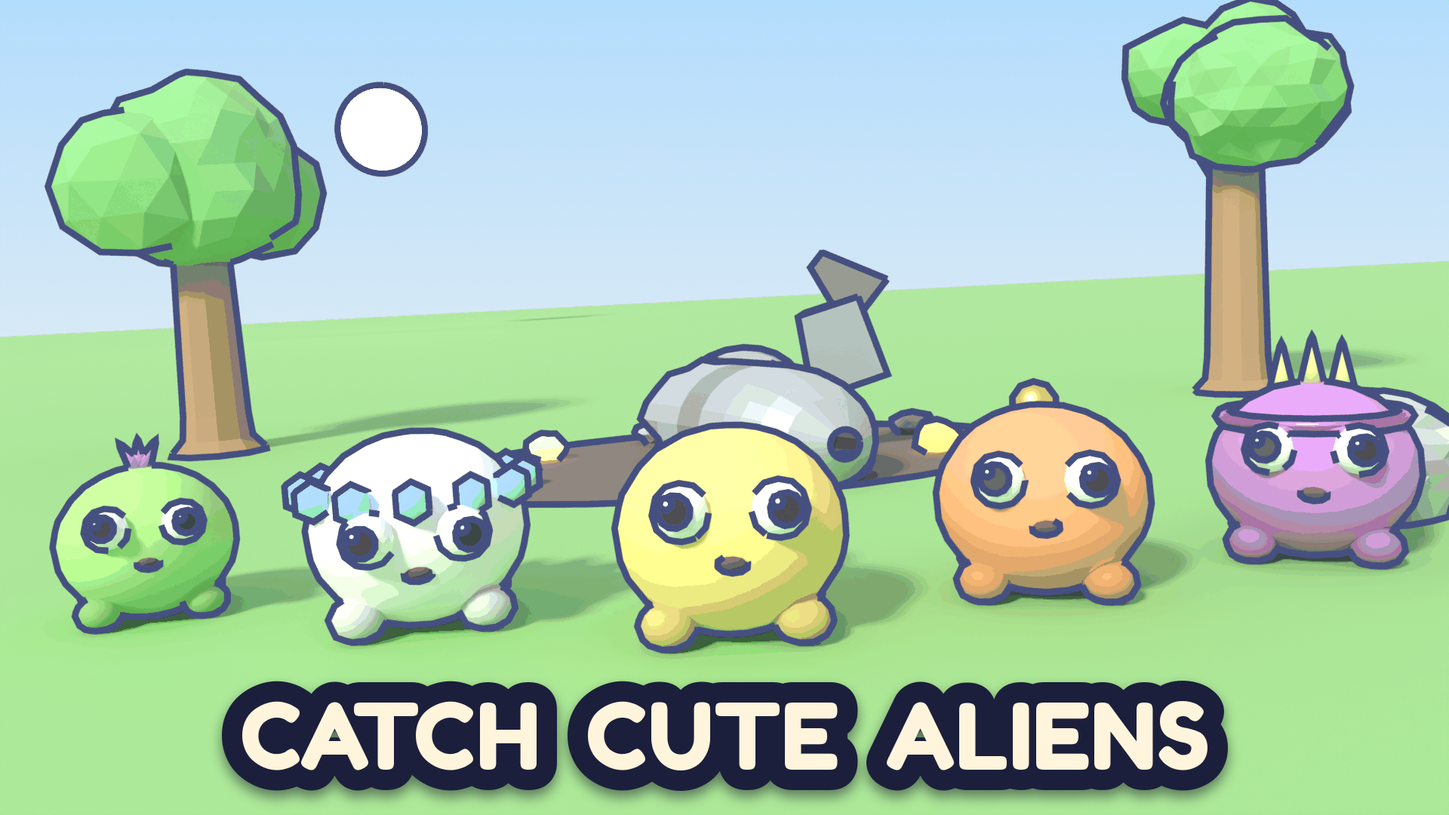
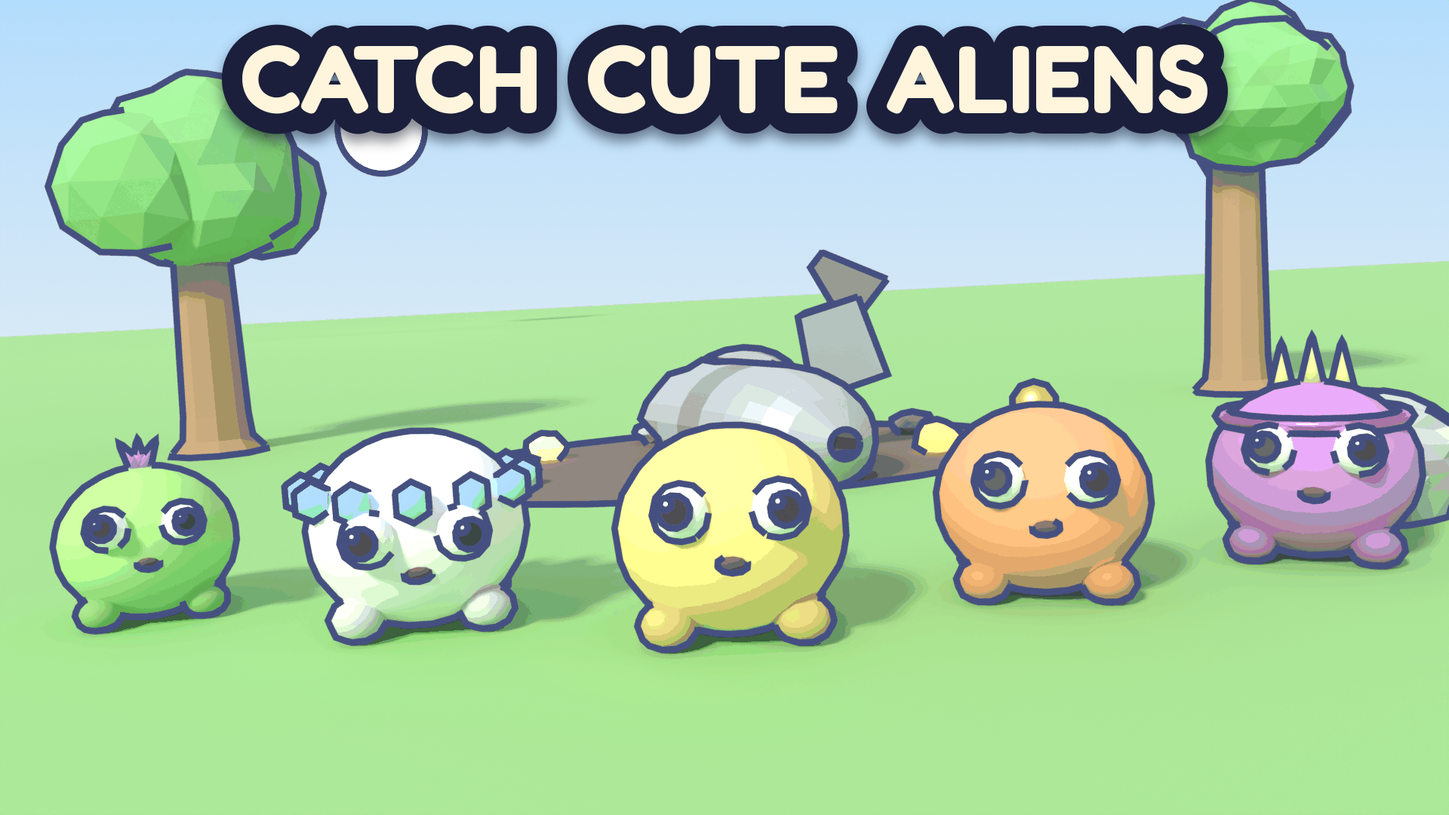
Thumbnail research: the recipe, our set scored, three candidates; the Verdant title moves to the top third
Claude-Session: https://claude.ai/code/session_01AXvT6QCi1wEkW64tWcXEt5

Changed region(s): [[0.125, 0.825, 0.875, 1.0], [0.125, 0.0306, 0.875, 0.1833]]

diff --git a/docs/vault/01-game-design/Thumbnail-Research.md b/docs/vault/01-game-design/Thumbnail-Research.md
@@ -1,0 +1,207 @@
+# Thumbnail research: what earns the first click, and how we build ours
+
+Researched 2026-10-14 for Ethan's questions (which thumbnails get the most first clicks, describe or mystery, words, reward or moment, composition, icon versus thumbnail, cadence, a brand-new game). Companion to [[Growth-Playbook]] section 2 and [[STORE-PAGE]] section 4; the look rules are in [[Look-Plan]] L5b and L6.
+
+**Evidence tiers** (the [[Growth-Playbook]] words, plus one): **doc** = a Roblox Creator Docs page I opened in full through its GitHub mirror (`raw.githubusercontent.com/Roblox/creator-docs`); **summary** = a search-result summary of a Roblox post I could not open; **3rd** = a blog, wiki, forum or creator post, not Roblox; **recall** = my own memory of how a live game looks, not seen from here; **heuristic** = a design rule from the above with no Roblox test behind it.
+
+**What I could not do.** roblox.com, create.roblox.com and devforum.roblox.com are blocked and WebFetch reached nothing but the GitHub mirror, so I never saw a Home tile or a Creator Hub chart. About 35 searches returned snippets. There is **no public dataset** of play-through rate (PTR) by thumbnail style, and no creator I found published an A/B result with numbers. Everything about "what the top games' thumbnails show" is therefore recall, flagged in section 4 with a 15-minute check to do on a phone.
+
+## 0. The answer in ten lines
+
+1. Nobody outside Roblox can say which thumbnail style wins; Roblox's own number for the feature that picks winners is +8.5% qualified PTR on average, up to +50% for some games (doc), later quoted as +12% over 8,000+ experiences (summary). A better thumbnail is single-digit to low-double-digit percent, not magic. The first 60 seconds and the 28-day return matter more.
+2. Roblox's guidance (doc) is: unique imagery that previews what you will find, accurate to the game, text "sparingly" and only as gameplay context, nothing essential in the bottom (the player count overlays it), no ads, promotions or subjective claims.
+3. Since June 2026 Roblox says it demotes games that win clicks with "exciting thumbnails" but deliver little (newsroom, summary), and first-play bounce under 60 s and 180 s counts against you (doc). So **tease the real best moment; never hide the game behind a mystery.**
+4. The tile already prints our name, "Catch an Alien", under the picture. Thumbnail words should add what the name does not: the moment, the rarity, the hook, the update. "CATCH CUTE ALIENS" repeats the name, and it sits in the bottom band.
+5. All sources agree on the picture: one subject, a face with a clear emotion looking at the viewer, saturated colour with contrast, readable at phone size (3rd, heuristic).
+6. Our current legendary shot is the best of the set (12/16 on the recipe); the Verdant (5/16) and Frostbyte (4/16) shots are crowds of small aliens on pale ground and break Roblox's bottom-band rule.
+7. **All five store renders show the earlier ball-shaped aliens, not the silhouette-pass models now in `assets/models`.** If those go up before launch, the thumbnails stop matching the game (section 7).
+8. Ship three active thumbnails that differ by concept, not styling: Moment, Reward, Mystery (section 8). Roblox's tool is a per-user-group bandit, not a clean A/B; read it after a week.
+9. Put the Moment first (section 9): it is the only frame that shows the verb, and the first catch lands at 0:30.
+10. The icon is the mascot (Moop), no text, on a saturated dark backdrop; the current pale backdrop and 1% outline are the weak part.
+
+## 1. What Roblox itself says (doc unless marked)
+
+| Topic | Fact |
+|---|---|
+| Image | 16:9, ideally 1920x1080; jpg, gif, png, tga, bmp; stretched to 16:9 if not; personalization uploads under 3 MB. Up to **10** images or videos on the detail page; personalization uses **2 to 5** active ones |
+| Where it shows | "The first image thumbnail is used as the promotional image in various sections of the Home page." With 2+ active, each user group is served the winner instead. Home tile pixel sizes and autoplay behaviour are **not in any page I could read**; the video "can also be shown on the Home page" and shows first on the detail page |
+| The test | Personalization starts only with 2+ active thumbnails. Each is shown to random users, qualified PTR is measured per user group, the winner gets more impressions for that group, the others keep "minimal traffic". Impressions re-weight within hours (summary). The Home Page tab fills after a few hours with a table: impressions, qualified plays, average playtime, qualified PTR, a "Winning Segment" mark, and two graphs over time (summary of the docs' analytics section) |
+| Results | Average +8.5% qualified PTR in testing, some games +50% (doc). "Over 8,000 experiences adopted it, average +12%" (Bloxy News post quoting Roblox, summary). The 2025 "remembers winners" update: +0.19% and 21% fewer impressions to non-winners (summary); start a new test with the current winner included and it keeps most traffic |
+| Cadence | "Test multiple new thumbnails with any major game or content update, and then not make changes until the next update." Keep several active; a thumbnail pulled early may be the second-best performer |
+| Measurement | Qualified PTR is a rolling 7-day value (summary); removed thumbnails keep colouring the average for days; several bug threads on mismatched counts (summary) |
+| Content | "Imagery that is unique and gives players a relevant preview"; "ambiguous imagery can cause confusion"; "make sure all thumbnails accurately reflect your game"; a dinosaur thumbnail for a game with no dinosaurs is the docs' mismatch example (discovery.md) |
+| Text | "Overlay text sparingly, and only to describe gameplay context." Not allowed: advertisements, promotions or subjective claims ("50% off", "Free UGC!"). "Avoid placing essential text or elements at the bottom" |
+| Reward words | Metadata that "implies any type of monetary reward is not prioritized"; highly mismatched metadata is not recommended and ranks lower in search (discovery.md). No FREE, Robux, codes words |
+| Video | 3 uploads a month; must be authentic (no voice-over, no lyric music, no real-life footage); in-game UI text and a logo overlay are allowed; not on console or VR |
+| Icon | Square, 512x512 template, shown down to about 150x150; "prominent placement in several sections of the Home page"; express theme, tone and genre; avoid ambiguous art; colour and contrast carry mood (bright high saturation for fantasy and dreamy). The docs do not mention text in icons. **No icon test exists** (a DevForum request is open, nothing found to say it shipped) |
+| Events | Each event can carry its own thumbnail; the docs recommend one "different from your experience thumbnails"; the event category "may be shown alongside your event thumbnail"; max 10 live or upcoming events; Home is not mentioned (experience-events.md) |
+| Algorithm | PTR is the top-weighted Recommended-for-You signal; first-play bounce is negative; the window moved to 28 days on 2026-06-15 because short windows let "exciting thumbnails but shallow gameplay" displace better games (newsroom, summary). A temporary PTR drop while impressions rise at first discovery is normal (discovery.md) |
+
+## 2. What creators and trade sources say (3rd, all anecdotal)
+
+- **No numbers on style.** Searches for an A/B result with faces, text or colours returned none. One blog claims face-forward thumbnails beat scenic ones "in reported A/B results" and cites nothing. One generic YouTube-sourced claim (+20 to 30% for genuine emotion) is not Roblox data. I discard every "40% CTR lift" figure I saw (unsourced).
+- **Grow a Garden:** an artist posted that a thumbnail "was used for A/B thumbnail testing for the game, and it did pretty well" (X, summary). A fan wiki page named "Thumbnails and Icons" is summarised as "all of Grow a Garden's thumbnails and icons contain text" (wiki, snippet).
+- **Roblox's tool is a bandit.** A post from 2024 describes it as multi-armed-bandit testing that finds "what sort of image resonates" (X). A creator contest for a Claw Machine Simulator thumbnail let Roblox's tool pick the winner; the brief asked for eye-catching, "not misleading" (X).
+- **One DevForum case:** a creator with a weak PTR was told the default-baseplate-and-sword thumbnail was the weakest of his set and to show an intense fight or scenic view that makes people curious about the gameplay. Another creator reported about 3.2% qualified PTR on the best thumbnail, improved after adding two more (summary; units unclear).
+- **Tizzy_RBLX:** a transcript summary lists "test several thumbnails to improve click-through" among seven lessons (3rd). The okviky3 slideshow already in `media/tiktok/NOTES.md` says "nice thumbnails which also show and don't tell" and "good PTR thumbnails" (3rd).
+- **Blogs (ForgeGUI, Moda, qptr.io, others; opinion):** one subject, one action, one mood; bold saturated colours that stand out against the white and grey Discover page; faces with clear exaggerated emotion; one to two characters, sometimes three; dynamic angle not flat head-on; if you need a word make it huge, remove text that cannot be read at about 150x150; put text on a thin outline or a bar; keep faces and text away from the bottom edge; before-and-after shots are a simulator staple; test at about 320 px wide. A tool, qptr.io, previews thumbnails on mobile, desktop and console Home layouts.
+- **Not found:** BIG Games or any big studio saying anything about thumbnails; any YouTube creator's A/B table. The brief's searches for these returned only the sources above.
+
+## 3. The questions, answered
+
+**Describe or mystery?** Describe the moment, tease the payoff. Roblox's docs and staff post ("showcase your gameplay or content update", rewards thumbnails that match what players will play, warns that clickbait causes quick bounces, summary) point one way, and the June 2026 change makes a mismatched click cost you for 28 days. A pure mystery arm has no evidence for it on Roblox. A cute face plus a hook is fine because it is not a lie. *Confidence: medium (doc and newsroom, no test data).*
+
+**Words: how often, how many, how big, what they say?** The only observed fact is that Grow a Garden uses its title on every thumbnail and icon (wiki snippet). Roblox says sparingly. No measured effect of word count exists. For us: zero or at most three words, one line, cap height at least 9% of the frame (about 100 px at 1080p, 10 px on a 192x108 test), which caps one line at about 12 letters, in the top third. What they should say: the moment ("PERFECT!"), the rarity ("LEGENDARY"), the hook ("WHO'S THAT?"), the update ("NEW WORLD"), because the tile already shows "Catch an Alien". A number: no evidence it helps on Roblox; use one only as a deliberate test (section 8). *Confidence: low on numbers, medium on placement (doc).*
+
+**Does the first thumbnail differ from the second and third?** With 2+ active, Roblox picks per user group, so there is no single "first" on Home. The first image is the fallback and the lead of the detail-page gallery (and a video leads it if one is approved). Make the three differ by concept so the bandit has something to learn. Inactive images (up to 10 in all) only show in the detail-page gallery, which is where the ship and the collection belong. *Confidence: medium (doc).*
+
+**Rarest pet or the catching moment? A face looking at the viewer? Several characters or one?** No data. The genre convention in collection games is the rare pet (3rd, recall); the moment is the thing no peer shows. Faces to the lens and one or two characters are the consensus (3rd). Our call: one hero, eyes to the lens, and we test moment against reward against mystery. *Confidence: low.*
+
+**Composition for a small tile.** All heuristic: hero 55 to 75% of the frame height and 30 to 45% of the width, centred; essentials inside y 0.05 to 0.82 (the bottom 18% is the metadata band); saturated backdrop that is neither white nor pale; complementary hero and backdrop; navy outline at least 1.3% of the frame height on the hero; face and eyes large enough to read at 192x108 (each eye at least 5% of the frame width); text on the top third. Roblox adds: express mood through colour, test at 150x150. I measured our own set at 256x144 (section 7).
+
+**Icon versus thumbnail.** The icon is the identity: square, 150 px, a prominent Home placement; it carries the face, no words. The thumbnail is the pitch: 16:9, the verb and the payoff. Which Home row uses which is not documented; "the first thumbnail" is the promotional image in various Home sections.
+
+**Update cadence.** Roblox: change thumbnails with major updates, then hold. Big games swap with each update and event with an update name or a "NEW" or "UPDATE" tag (recall; Pet Simulator 99 numbers its updates, summary). The platform's own sticker is the event category beside an event thumbnail (doc). We hold the launch set a full week, then rotate one arm per update (World 2, Haunted Nebula's end, the first Frostbyte week).
+
+**What should a brand-new game do differently?** See section 5.
+
+## 4. The top games (recall: verify before relying on it)
+
+I could not open one tile; no search returned a description of a thumbnail. These rows are what I remember of each game's art, each marked with how sure I am. "?" means I do not know. Treat the table as a hypothesis list for the phone check in section 11.
+
+| Game | Describes or teases (recall) | Words | Hero | Render or in-game | Sticker | Confidence |
+|---|---|---|---|---|---|---|
+| Grow a Garden | Describes: a garden, crops, pets, bright | Title on every thumbnail and icon (wiki snippet); event name on event art | crops or a pet; a face? | stylised 3D render | event names | words: snippet; rest low |
+| Steal a Brainrot | Teases: loud meme creatures | big title | a creature face | render | ? | low |
+| Pet Simulator 99 | Rewards: one big rare pet, a logo, the update name | logo plus update name | a Huge pet, face to the viewer | polished 3D render | update tags | medium |
+| Adopt Me | Describes: friendly pets and the new content | update name | pet faces to the viewer, pastel | soft 3D render | "NEW" on updates | medium |
+| Fisch | Rewards: a giant fish and the angler | update name | the catch | render | update tags | low |
+| Blox Fruits | Rewards: stylised characters and fruit powers | update name and number | an illustrated hero | 2D illustration; a forum snippet praises its thumbnail quality | update number | medium |
+| 99 Nights in the Forest | Teases: dark forest, a creature | little text | a creature | render | ? | low |
+| Dress to Impress | Describes: avatars in outfits | ? | avatars | render | ? | low |
+| Rivals, Blue Lock Rivals | Describes: a duel or key art | title | characters | render or illustration | ? | low |
+| Brookhaven | Describes: a house and the town | the name | a house | render | ? | low |
+| Steal an Egg | ? (launched July 2026, after my solid recall; one snippet says Roblox removed it in late August, unverified) | ? | ? | ? | ? | none |
+| Pet Catchers | Describes: cute pets to catch | logo | pets | render | ? | low |
+
+What I take from it, only as a pattern to check: the top collection games show one big character with its face to the viewer in a polished render, with the logo or the update name as the only text, and an update sticker when there is something new. The icon repeats the same character close up.
+
+## 5. A brand-new game with no players
+
+- **No social proof.** The tile's rating and player count will be thin or empty for weeks, so the picture and the name are the whole sell. The picture has to say the verb and the cute at once. Our name already says "Catch" and "Alien"; the picture adds how (a bar, a timing moment) and why (cute, a rare glow).
+- **No brand recognition.** A top game can run a mystery or a logo because players know it. We cannot; the hook must be visible without knowing us.
+- **The click has to be honest.** The first-play bounce is a negative signal and counts Home-acquired players only (Growth-Playbook section 1). Our first catch is at 0:30; the Moment thumbnail promises exactly that.
+- **Small traffic means few arms.** A bandit needs impressions; with little traffic three arms learn faster than five. Start with three; add the fourth with the first update.
+- **A PTR dip at first discovery is normal** (discovery.md); do not react to day-one numbers.
+- **Seed the same story elsewhere:** the 10 to 15 second clip that shows the catch moment, the group page, and the first creators ([[STORE-PAGE]] section 5c).
+
+## 6. Our recipe (the first thumbnail set)
+
+1. **One hero, one verb cue, one payoff.** A single alien, face to the lens, plus one thing that says what you do (the timing bar) or what you get (a rarity glow). Never five equal aliens.
+2. **Size and place.** Hero 55 to 75% of the frame height, 30 to 45% of the width, horizontally centred (or on a third when text sits opposite). Face centre between y 0.35 and 0.55.
+3. **Safe zone.** Every essential (face, bar, words, badge) inside y 0.05 to 0.82 and x 0.05 to 0.95. Feet, a ground ring or a shadow may drop into the bottom 18%.
+4. **Eyes.** Both eyes visible, pupils to the lens, each eye at least 5% of the frame width, mouth open or smiling. Override the recipe's sly lids for the render only.
+5. **Colour.** Mean saturation at least 0.40 and at most 15% pale pixels (saturation under 0.25 and value over 0.8); a backdrop that is mid to dark and saturated, not white and not pale; a complementary pair between hero and backdrop; a greyscale step of at least 40% in lightness between hero and backdrop; check at 256x144, 192x108 and in greyscale. The `DAY`, `WINTER` and `DUSK` sky tuples in `store_renders.py` are scene-linear values: (0.45, 0.72, 0.98) displays as a pale #B3DEFC, which is why the set looks washed out. Pick values from the hex-to-linear table in section 8.
+6. **Outline.** Hero outline navy `1B1F3B`, 14 px at 1080p (1.3% of the height) minimum; the title outline 2.5% of the height (`store_title.py` default).
+7. **Words.** Zero to three words, one line of at most about 12 letters, Fredoka One, cap height at least 9% of the frame (the Verdant title is about 8%), top third only, fill from the hero's rarity or role colour, navy outline. The words must add what the name does not. No FREE, Robux, codes, "best", "cute" (a subjective claim), no price.
+8. **Real game only.** The capture bar with the Theme hexes and the tier's real zone widths (Rare: Good 0.26, Perfect 0.08 of the bar), the rarity colours, the "!" bubble, the Reveal's rays, models as they are in the game. No avatar with a net: the game has no held tool.
+9. **Three concepts, one brand frame.** Moment, Reward, Mystery, all in the same navy outline, the same Fredoka title style and the same lighting direction, so a player who sees two of them knows it is one game. Hold the set seven days.
+10. **Icon is the mascot.** Moop face, 75 to 85% of the frame, saturated dark violet backdrop, outline 3% of the width, no text, no ship, checked at 150 px, 64 px and in greyscale.
+11. **Rotate with updates.** One arm per update, keep the current winner in the set, keep the rest of the story (ship, collection, world 2, Haunted Nebula) as inactive gallery images and as the video.
+
+## 7. Scoring our current set against the recipe
+
+Scored 0, 1 or 2 per line (icon on six lines). Measures are from the 1920x1080 files and 256x144 greyscale and colour contact sheets (scratch files only).
+
+| Line | Verdant "CATCH CUTE ALIENS" | Legendary "LEGENDARY!" | Frostbyte "NEW WORLD: FROSTBYTE" | Icon Moop v2 |
+|---|---|---|---|---|
+| One hero | 0 (five equal) | 2 | 0 (five small) | 2 |
+| Hero size | 0 (each 11 to 16% wide, 28% tall at most) | 2 (42% wide, 73% tall) | 0 (aliens 12 to 15% wide, 19 to 27% tall; the title block takes 42% of the height) | 2 (63% wide, 74% tall) |
+| Eyes to the lens | 2 | 2 | 1 (small, white-on-white) | 2 |
+| Colour and contrast | 1 (saturation 0.29, 26% pale; green alien on green ground, sun disc is a white dot) | 2 (saturation 0.43, 1% pale) | 0 (saturation 0.19, 42% near-white, white aliens on white snow) | 1 (saturation 0.20, 59% pale backdrop; alien reads at 64 px but the outline is 1% of the width, 1.5 px at 150 px) |
+| Text rules | 0 (title sits in the bottom 16%, about 8% cap height, repeats the name, "cute" is subjective) | 2 | 1 (top, but a colon and two lines cover the spire) | 2 (none) |
+| Shows the verb | 1 (word only) | 0 | 0 | n/a |
+| Shows payoff or moment | 0 (a roster; the wreck hides behind the yellow alien) | 2 | 1 (a place) | n/a |
+| Matches the live game | 1 | 0 (a ball with two antennae; the model is now a long-legged stag with blossoming antlers) | 1 | 1 |
+| **Total** | **5 of 16** | **12 of 16** | **4 of 16** | **10 of 12** |
+
+**Finding that needs a decision before the Mac renders anything.** The five store renders were committed in 27fc743 (2026-10-13, 04:06 -0400) from the pre-silhouette models: a ball body with one accessory (a crown, a knob, a pair of antennae). The silhouette pass (commits b95035c to c74d590, 17:44 to 17:49 -0400 the same day) rebuilt all 16 World 1 species: Moop is a mossy mound, Sparkfox a sitting fox with a paintbrush tail, Thunderhog a hedgehog with a lightning mane, Gaiabloom a stag, Puffpuff a dandelion starburst. Nothing is uploaded yet ("upload waits on Ethan", Board, job 24). Roblox needs the thumbnails to "accurately reflect your game". **Render from whichever model set is live on launch day.** If the silhouette models go up, re-render all five (the icon too); if they do not, render from the pre-silhouette GLBs (`git show b95035c^:assets/models/<Id>/<Id>.glb`, one per species, into a scratch folder, and point `--models` at it) or keep the current art.
+
+Other notes from the small-size check: the Legendary frame is the only one whose hero still reads at 64 px; the Verdant title is the largest thing in its frame and the aliens are specks; the Frostbyte title covers the ice spire and the aliens' white bodies vanish into the snow. "NEW WORLD" means nothing to a stranger on day one (nothing was old); hold that frame for the World 2 update and, until then, if it must run, retitle it "FLY TO NEW WORLDS" (the ship arc is our difference) and give the aliens a darker snow shade and a saturated blue sky.
+
+## 8. Three candidates for tomorrow (precise enough for `tools/blender/store_renders.py`)
+
+**Shared.** 1920x1080, Cycles CPU, 96 samples, denoise, view transform Standard (as now). Camera lens 40 mm, sensor 36 mm wide: the frame is 0.9 x distance wide and 0.506 x distance tall, so for a hero of height H filling a fraction f of the frame, `distance = H / (f x 0.506)`. Outline 14 px via `outline(sc, 14)`. Add three functions `moment()`, `reward()`, `mystery()` following the existing `main()` pattern and a `--only` flag; do not change the existing outputs. Raw renders `thumb_moment_raw.png`, `thumb_reward_raw.png`, `thumb_mystery_raw.png`; finished `thumb_moment_v1.png`, `thumb_reward_v1.png`, `thumb_mystery_v1.png` in `media/store/2026-10-15/`. Title with `python3 -I tools/store_title.py RAW "TEXT" OUT --pos top --fill HEX`. The sky tuples are scene-linear; use these (hex then linear): indigo `101B5C` (0.005, 0.011, 0.107); blue `2F66D6` (0.028, 0.133, 0.672); meadow shade `1E4F2A` (0.013, 0.078, 0.023); violet top `2A1170` (0.023, 0.006, 0.162); violet bottom `9A5BE0` (0.323, 0.105, 0.745); night top `0F0B3A` (0.005, 0.003, 0.042); night bottom `4A2A9A` (0.068, 0.023, 0.323); night ground `2B2160` (0.024, 0.015, 0.117); Rare blue `3B82F6` (0.044, 0.223, 0.922); Legendary gold `F59E0B` (0.913, 0.342, 0.003); Codex purple `A855F7` (0.392, 0.091, 0.930); lamp gold `FFD36B` (1.0, 0.651, 0.147). Faces: the render-only variants are built in a scratch copy, never in the repo. Copy `tools/blender` and `assets/models` to a scratch folder, change the `face` dicts named below in the copy of `species_recipes.py`, run the copy's `species_bodies.py --species Sparkfox,Gaiabloom,Glimmo --models <scratch>/models`, add a `--models` argument to `store_renders.py` (it reads the module constant `MODELS`) and point it at the scratch folder. Nothing in `assets/models` changes and the variants are not committed.
+
+### M. The Moment: `thumb_moment_v1.png` ("PERFECT!")
+
+- **Subject:** Sparkfox (Rare), `import_model("Sparkfox", height=4.0, yaw=-8)`, standing at the origin, tail tip included. Frame fraction f = 0.58 (y 0.24 to 0.82, centre 0.53): `distance = 4.0 / (0.58 x 0.506) = 13.6`, pitch 4, yaw 0, target the bounds centre plus 0.2 in z (a higher target puts the hero lower in the frame), lens 40, no roll. No depth of field (everything crisp at tile size).
+- **Face:** `lid` 0.0, `eye_tilt` 0, `look` (0, 0), `eye_scale` 1.3, `mouth` "o": wide awake, delighted, pupils to the lens. The recipe's sly half-lid goes.
+- **Glow:** the tail's Accessory emission from 2 to 6 (the glowing tip is the "glowing Rare"); an emissive disc, radius 2.6 units, 2 units behind the fox, colour `BFE0FF` core (strength 4) with an emissive torus ring `3B82F6` (radius 2.9, minor 0.07, strength 8) at the same depth: the tier aura, Rare = blue. A Rare-blue area light behind-right (4000 W) for a rim.
+- **Backdrop:** the meadow at night-dim: sky gradient indigo to blue (above), ground plane `1E4F2A` (the game dims the world by 60% in the capture screen), no trees, the CrashWreck small and dark at the back left only if it adds no clutter (skip it by default).
+- **The bar (composited after the render, PIL, exact Theme hexes):** a pill 1152 x 76 px centred at (960, 800) (the game's bar is 0.6 of the width at y 0.80 and 0.06 tall; here 0.07 tall for legibility and lifted to y 0.74 so it clears the metadata band), fill `1B1F3B`, 8 px navy edge, soft shadow; the Good zone `51DF51` 26% of the bar wide (300 px, x 810 to 1110) and the Perfect zone `FFC83D` 8% (92 px, x 914 to 1006), both full height with 10 px corners; the ticker white, 14 px wide, 114 px tall, centred at x 977, navy outline 6 px, inside the Perfect zone; a 30 px soft gold glow round the Perfect zone (the near-miss flash in the real bar); a tier label "RARE" in `3B82F6` with a 5 px navy outline, 58 px cap height, centred at (960, 715). Rare's real zones are 0.26 and 0.08, so the bar is honest.
+- **Text:** "PERFECT!" (the game's own feedback word, `CATCH_PERFECT`), `--fill FFEF4A`, `--width 0.50` (cap height about 12%), top. Nothing else; the verb "catch" is already in the name under the tile.
+- **Player's hand:** none. The game has no held tool; a tap is the input. Do not add an avatar.
+
+### R. The Reward: `thumb_reward_v1.png` ("LEGENDARY")
+
+- **Subject:** Gaiabloom (Legendary), `height=6.0, yaw=12`, halo and ground ring included. f = 0.68 (y 0.24 to 0.92, centre 0.58): `distance = 6.0 / (0.68 x 0.506) = 17.4`, pitch 6, lens 40, target the bounds centre plus 0.7 in z. Antler blossoms reach y 0.24, clear of the title; the ground ring sits in the bottom band, which is fine for a non-essential.
+- **Face:** `lid` 0.0, `eye_scale` 1.2, `look` (0, 0), `mouth` "smile": serene, wide-eyed, looking at the viewer.
+- **Backdrop:** violet gradient `2A1170` top to `9A5BE0` bottom; a rotating-burst of 16 thin emissive triangles (alternating `FFD36B` and `FFF1B0`, strength 1.2) radiating from behind the head, 12 units long, the Reveal screen's rays; about 40 small emissive confetti quads (Rare blue, Epic magenta `C026D3`, green `57F96C`, gold `F59E0B`), each under 1.5% of the frame wide, none over the face. Rim lights: gold `F59E0B` area light behind-left 5000 W; Codex purple `A855F7` behind-right 4000 W.
+- **Text:** "LEGENDARY", `--fill F59E0B`, `--width 0.52`, top. **No number in the base version**: no source shows a number helps on Roblox. **Number variant (the optional fourth arm, week 2):** the same render plus a round badge, Legendary gold with a navy outline, at (0.80, 0.30), 9% of the frame high, reading "1 OF 35" (35 aliens is the store description's count). It tells a stranger "a collection", and a collection count is something we can keep true; do not use odds ("1.5%") because they change and could read as a promotion.
+- **In the alien's hand:** nothing. The gold halo and ground ring are the model's own.
+
+### Y. The Mystery: `thumb_mystery_v1.png` ("WHO'S THAT?")
+
+- **Subject:** Glim (id Glimmo; Common, a night-forest species with a glowing lamp) peeking from behind a rock, so the face is cute and the creature is the question. Place MeadowRock at (0.6, 2.2, 0), widened to about 5 units and scaled in z until its top edge is 1.5 units high (0.55 of Glim's 2.7), and Glim at (0.5, 3.4, 0), height 2.7, yaw 0, so the rock hides the skirt and both eyes sit above the edge. Camera: the head (the bell without the skirt) fills 45% of the frame width, `distance = bell_width / (0.45 x 0.9)` from `bounds()`, pitch 3, lens 40, target the eyes, shallow depth of field (focus on the eyes, f/1.8) so the wreck and ground melt.
+- **Face:** the recipe's own (`eye_scale` 1.35, smile, `look` (0, 0.1)), slightly shy: raise `look` to (0, 0.15) and add `lid` 0.0. Both eyes at least 9% of the frame wide.
+- **Light:** almost no sun (energy 0.3, blue `8FB0FF`); the lamp is the key: a point light 600 W `FFD36B` at the lamp, the lamp material emissive strength 8; a faint teal `5CE1E6` rim from behind-left, 1500 W. Night sky `0F0B3A` to `4A2A9A`, ground `2B2160`, about 25 emissive star specks in the top third, the CrashWreck dark at back left with one cyan window light.
+- **The "!":** the game's own alert bubble: a gold `FFC83D` circle, 9% of the frame high, navy "!" and navy outline, above and right of the head at (0.70, 0.30). Composite with PIL.
+- **Text:** "WHO'S THAT?", `--fill FFF4DC`, `--width 0.56`, top.
+- **Why it is honest:** the design has a new species appear as a shadow silhouette with a "Who's that?" chime and the Codex shows uncaught aliens as silhouettes (GAME_DESIGN section 2, the first-sight row; section 16), and the "!" bubble is the real tap target (GAME_DESIGN section 7). Dim, do not black out the face: the cute must still land.
+
+### Bonus: the Haunted Nebula event thumbnail
+
+`docs/STORE-PAGE.md` lists `thumb_legendary_v2_title.png` for the Events row, but Gaiabloom is not an event species and the docs recommend an event thumbnail different from the experience set. Render Cosmoo (id Nebulyn, the Legendary track reward), Wispkin and Grin on a violet and teal sky with the gold star tail as the hero and "HAUNTED NEBULA" (two words, top, `--fill A855F7` or cream); no "NEW". This one serves the Events surface only.
+
+### The icon, v3 (not requested, one paragraph)
+
+Moop (id Mossbop), camera closer so the face fills 80% of the frame, pupils to the lens, backdrop a radial gradient `3B1E9E` to `7A3FD6` (lime on violet is the complementary pair), outline 3.2% of the width (33 px at 1024), one small gold sparkle, no ship, no text; check at 150 px, 64 px and greyscale. Moop is also the group name and emblem, so the mascot is consistent.
+
+## 9. Which single thumbnail goes first
+
+The Moment. A stranger has three seconds and no reviews, and the name tells them only "catch" and "alien"; the Moment is the only frame that shows how (a bar with a gold zone and a ticker) and why (a wide-eyed cute alien glowing in a Rare's blue) in one look. It matches the first minute (the first catch is at 0:30, [[Growth-Playbook]] section 6), so the click is honest and the first-play bounce does not punish it; and no peer shows a timing bar, so it separates us from every pet sim whose big-rare-pet frame we would otherwise copy. The Reward is the safest picture and the best purely at 64 px, and I expect it to win on pure tile reading, which is why it is the second active arm; the Mystery is the surprise arm. If the Moment's bar is unreadable in the 192x108 check (the bar should read as a dark pill with a green zone and a gold sliver), put the Reward first and the Moment second.
+
+## 10. Test plan, and what to read
+
+- Activate the three at launch (Creator Hub, Home Page tab, 2 to 5 active). The remaining story frames (the ship being built, the codex, Frostbyte) go in as inactive gallery images, in order, behind them; the video goes first on the detail page when the Mac's clip exists.
+- Change nothing for seven days; the metric is a rolling 7-day value and the bandit re-weights hourly.
+- Read, per thumbnail, qualified PTR **and** average playtime. A thumbnail with a high PTR and a short playtime is a clickbait arm; keep the one with both.
+- Rule of thumb (generic A/B practice, not Roblox's): do not act on fewer than about 1,000 impressions per arm or a gap under about 20% relative. Replace only the weakest arm, with one change to the winning concept, and keep the winner in the set so it keeps most traffic.
+- The icon has no test; rotate it by hand one change per two weeks and compare PTR across the same weekdays.
+
+## 11. To verify (15 minutes, a phone, Ethan or the Mac)
+
+Open the Home page and screenshot the top 30 tiles. For each, tick: describes or teases; word count and rough size; which row it is in (icon square or 16:9); reward, moment or a face; a character looking at the lens; render or in-game; the main two colours; an update or NEW sticker; how the icon differs from the thumbnail on the detail page; how many thumbnails the detail page rotates through. Then read section 4 against the screenshots and correct it. Also note the tile's pixel size on an iPhone SE (the design test size) and whether a video autoplays on Home.
+
+## 12. Sources
+
+doc (GitHub mirror of create.roblox.com, base `https://raw.githubusercontent.com/Roblox/creator-docs/main/content/en-us/`): `production/publishing/thumbnails.md`, `production/publishing/experience-icons.md`, `discovery.md`, `production/promotion/experience-events.md`. (`production/promotion/promotional-thumbnails.md` and `cloud/reference/features/thumbnail-personalization.md` returned 404 at that path.)
+
+summary (search snippets of Roblox posts): newsroom "Optimizing Discovery" 2026-06 `https://about.roblox.com/newsroom/2026/06/optimizing-discovery-great-games-reach-millions-players-roblox`; DevForum `.../t/live-now-personalize-your-thumbnails-to-attract-more-users/3257233`, `.../t/thumbnail-personalization-now-remembers-your-existing-winning-thumbnails/3793665`, `.../t/get-your-thumbnails-ready-for-thumbnail-personalization/3226599`, `.../t/qualified-play-through-rate-best/3751740`, `.../t/other-thumbnails-still-getting-updated-with-stats-despite-being-removed/3897616`, `.../t/icon-ab-testing/3274267`, `.../t/how-to-get-playthrough-rate-up/4772142`; Bloxy News `https://x.com/Bloxy_News/status/1890113378766704674` (+12%, 8,000+ experiences). (All under `https://devforum.roblox.com` where abbreviated.)
+
+3rd: `https://x.com/MouseyCherie/status/1916109631174414526` (Grow a Garden thumbnail A/B); `https://x.com/david_statter/status/1856758222473851350` (bandit); `https://x.com/DJMonopoli/status/1962876872691249333` (contest brief); `https://growagarden.fandom.com/wiki/Thumbnails_and_Icons` and `https://blox-fruits.fandom.com/f/p/4400000000000110597` (snippets only); `https://forgegui.com/blog/how-to-make-roblox-thumbnail-that-gets-clicks-2026`, `https://rowatcher.com/news/the-roblox-thumbnail-is-a-conversion-ad-stop-designing-it-like-art`, `https://qptr.io/thumbnails`, `https://moda.app/resources/sizes/roblox-thumbnail`, `https://sozai.app/transcript/roblox-game-earnings-lessons/` (Tizzy_RBLX summary); `https://massivelyop.com/2026/08/29/roblox-clamps-down-on-gen-ai-brainrot-scrolling-games-after-steal-an-egg-goes-viral/` (Steal an Egg status, unverified). In the repo: `media/tiktok/NOTES.md` (okviky3), `docs/vault/06-art-pipelines/Silhouette-Pass.md`, `tools/blender/store_renders.py`, `tools/store_title.py`, `src/client/UI/CaptureBar.luau`, `src/shared/data/Tiers.luau`.
+
+## 13. Where this disagrees with Growth-Playbook section 2 (and STORE-PAGE section 4); left unedited for the owner
+
+1. **Text that repeats the name.** The playbook's brief A overlays "CATCH ALIENS!"; the name chosen since (decision 19) is "Catch an Alien", printed under every tile. The overlay should add information (the moment, the rarity, the hook, the update). The playbook's "two to four words of huge outlined text" rests on two SEO blogs (S34); Roblox's text is "sparingly" and "only to describe gameplay context".
+2. **Briefs B and C fail the one-subject rule at tile size.** The ship swarm (B) and the 4x3 codex grid (C) are many small subjects. They belong in the inactive gallery slots and the video; the Home arms should be one hero (section 8). C's idea survives as the single-silhouette Mystery.
+3. **Honesty line.** The playbook says "every frame is an in-engine render of real features". The five renders on disk predate the silhouette pass and show the earlier ball-shaped aliens; the Legendary frame shows a ball with antennae, not the Gaiabloom stag (section 7). It holds only for whichever model set is live at launch.
+4. **Icon.** The playbook asks for a "thick navy outline"; the v2 icon's outline is 1% of the width (1.5 px at 150 px), while [[Look-Plan]] L5b calls for about 6% for UI icons. The pale backdrop (59% pale pixels) is also against "colour and contrast for mood" in the icon docs. STORE-PAGE's "the ship in the corner" will not read at 150 px.
+5. **Text position.** The titled Verdant frame puts its title in the bottom 16%, which the docs and the playbook's own rule ("text top-left or top-right") say not to do; the file is the first of the three in the dashboard run sheet.
+6. **Numbers in the personalization row.** The playbook's "+8.5% (summary)" is now doc tier (it is in `thumbnails.md`, with "some games +50%"); newer figures are +12% over 8,000+ experiences and +0.19% for the winner-memory update (both summary). No contradiction, only a tier change.
+7. **"The first one is the one the tile shows"** (STORE-PAGE section 4) and "up to 5": with two or more active, Roblox picks per user group and the first image is only the fallback and the gallery lead; up to 10 images or videos show on the detail page and 2 to 5 take part in personalization.
+8. **"A video autoplays on Home"** (STORE-PAGE section 5c; [[Growth-Playbook]] section 1 says only that the Moments tab shows videos): the docs say a video "can also be shown on the Home page" and are silent on autoplay. I found no page that confirms autoplay or states a Home tile size.
+9. **The Events row** (STORE-PAGE section 5d) reuses the Gaiabloom frame for Haunted Nebula; the docs recommend an event thumbnail distinct from the experience set (section 8, bonus).
+10. **"CATCH CUTE ALIENS" and "LEGENDARY!"** The docs bar "subjective claims"; "cute" is borderline, "Legendary" is an in-game rarity and fine.
+11. **The A/B wording.** [[Look-Plan]] L6 says "tested with Roblox's thumbnail A/B feature": it is personalization, a per-user-group bandit with a hourly re-weight, not an equal split; read it per section 10.

diff --git a/docs/STORE-PAGE.md b/docs/STORE-PAGE.md
@@ -32,11 +32,11 @@ One thumb, no stress, nothing you did is ever wasted.
 
 ## 4. Icon and thumbnails
 
-**Rendered overnight on 2026-10-14 (headless Blender, `tools/blender/store_renders.py`), in `media/store/2026-10-14/`.** The coordinator's picks: icon `icon_Mossbop_v2.png` (the navy outline reads like the top games' icons; `icon_Sparkfox_v2` and `icon_Thunderhog_v2` are the alternates); thumbnails in this order, the titled versions (two to four outlined words in Fredoka One, `tools/store_title.py`, 2026-10-14 afternoon): `thumb_verdant_v2_title.png` ("CATCH CUTE ALIENS" over five aliens at the crash wreck), `thumb_legendary_v2_title.png` ("LEGENDARY!" in gold over Gaiabloom), `thumb_frostbyte_v2_title.png` ("NEW WORLD: FROSTBYTE" over the spire and pines). The untitled `_v2` files are the same shots without text; `_v1` is the plain first pass. The wreck brought closer is the first polish item after launch.
+**Rendered overnight on 2026-10-14 (headless Blender, `tools/blender/store_renders.py`), in `media/store/2026-10-14/`.** The coordinator's picks: icon `icon_Mossbop_v2.png` (the navy outline reads like the top games' icons; `icon_Sparkfox_v2` and `icon_Thunderhog_v2` are the alternates); thumbnails in this order after the thumbnail research ([[Thumbnail-Research]], 2026-10-14 evening: show the real best moment, words in the top third only, one hero facing the lens, nothing essential in the bottom fifth): `thumb_legendary_v2_title.png` ("LEGENDARY!" in gold over Gaiabloom; it scored highest of the three), `thumb_verdant_v2_title.png` ("CATCH CUTE ALIENS", the title now in the top third), `thumb_frostbyte_v2_title.png` ("NEW WORLD: FROSTBYTE"; weakest: white aliens on white snow). These are the interim set; the three candidates the research specifies (a mid-catch Moment with the capture bar, the Reward, a Mystery peek) are rendered on the Mac from the new bodies once the surface pass is in, and the Moment goes first if its bar reads at 192x108. The untitled `_v2` files are the same shots without text; `_v1` is the plain first pass. The wreck brought closer is the first polish item after launch.
 
 
 - Icon 512x512: the Moop (or Sparkfox) face close-up on the meadow, rendered in Blender from the species model with the icons v2 light (`docs/vault/06-art-pipelines/Look-Plan.md` L5b), thick outline, the ship in the corner. Until that render exists: a Studio capture of a Moop catch moment, cropped square.
-- Thumbnails 1920x1080 (up to 5; the first one is the one the tile shows): (1) the camp with the half-built ship and aliens at work, (2) the capture bar on a Rare, (3) the Moonlit Forest at night, (4) the home planet with habitats. The Mac's overnight captures land in `media/store/2026-10-14/`; pick the four best, add the game name in Fredoka One with an outline on the first one.
+- Thumbnails 1920x1080 (the first one is the one the tile shows; the research found no support for a five-slot limit or a Home autoplay, so treat the first slot as the whole game): (1) the camp with the half-built ship and aliens at work, (2) the capture bar on a Rare, (3) the Moonlit Forest at night, (4) the home planet with habitats. The Mac's overnight captures land in `media/store/2026-10-14/`; pick the four best, add the game name in Fredoka One with an outline on the first one.
 - A 10-second clip for the store video can wait until after launch (the cinematic shots film it).
 
 ## 5. Launch morning checklist (Ethan, about 20 minutes)
@@ -73,7 +73,7 @@ Creator Dashboard: create.roblox.com > Creations > Alien game (universe 10769415
 | Basic Settings | Genre | Adventure |
 | Basic Settings | Playable devices | Computer, Phone, Tablet on; Console and VR off |
 | Basic Settings | Icon | `media/store/2026-10-14/icon_Mossbop_v2.png` |
-| Basic Settings | Thumbnails (in order) | `thumb_verdant_v2_title.png`, `thumb_legendary_v2_title.png`, `thumb_frostbyte_v2_title.png`; video `media/store/2026-10-14/clip_catch.mp4` once the Mac's job 18 delivers it |
+| Basic Settings | Thumbnails (in order) | `thumb_legendary_v2_title.png`, `thumb_verdant_v2_title.png`, `thumb_frostbyte_v2_title.png` (interim; the Moment render replaces the first slot when it exists); video `media/store/2026-10-14/clip_catch.mp4` once the Mac's job 18 delivers it |
 | Places > World 1 | Max players | 8; server fill: Roblox optimised |
 | Access | Private servers | Off |
 | Access | Paid access | Off |

diff --git a/docs/vault/08-log/2026-10-14.md b/docs/vault/08-log/2026-10-14.md
@@ -422,3 +422,9 @@ Check-ins 5 to 8 (09:40 to 12:32 UTC) found no change: Studio stayed signed out,
 - Done: Ethan's top picks of the second naming pass are applied. 21 names change and 14 keep their own. `Species.luau` `name` per row (ids, asset folders and `ModelAssets` untouched), `TUT_2` and `TUT_3` in `strings/en.luau` (and the two quotes in the TESTING tutorial step), the GAME_DESIGN roster, Handoff, Growth-Playbook, UI-Playbook, PRE_PRODUCTION and store-page prose, the group name Moop Games in [[Group-Page]] and the Board's Decided line, `media/group/emblem_v1.png` redrawn with the banner MOOP (the tool's default is now MOOP), [[Decisions]] row B26, and `tests/SpeciesNames.spec.luau` (every name non-empty, 10 characters at most, unique). The collision screen is a table in [[Species-Names]], with an id to name map.
 - Found: the screen (three searches per new name, web-search summaries only) swapped five picks: Shardwing to Prismlux (a Steal an Egg Secret pet; the B Gloomwing is a D&D moth), Twiddle to Twiggle (a fidget-toy brand), Floof to Mitt (a Kirby enemy and a toy brand; the A Fluff is a Donkey Kong Country enemy), Bunbun to Snowsnow (a Mario enemy), Ember to Sizz (Pixar's Elemental lead and a Skylanders character). `names_check.py` stays clean on the new mix (A 30, B 3, C 2). Moop is kept because it is the studio name: its only hits are the defunct Kachooz Moop pencil toppers and an obscure 2002 game. The brief's fallback list lacked Toastoad; the note's pick column has it (its own current name), so it stays. There is no B25 row on this branch; B26 follows B24.
 - Left: a Roblox catalog and USPTO search before the store page, starting with Moop, Grin and the near-misses Buzzbit (Buzzbite, a DK enemy), Cosmoo (Kosmoo, a Flemish kids' show), Flapflap (Flipflap, a DK bat) and Fenrikin (two letters from the Pokemon Fennekin; Fenrilet is the ready swap); the 14 unchanged names were not searched again. The rest of `docs/TESTING.md`, `docs/STUDIO-QUEUE.md` and `docs/OWNER-GUIDE.md` still say the old names in prose (a pointer under the TESTING title; commands take ids), and the art notes keep ids. Mitt is the plainest name on the list, the first to revisit.
+
+## Worker: thumbnail research
+
+- Done: [[Thumbnail-Research]]: what the Creator docs and creators with numbers say about play-through rate, a 13-game table of current thumbnails (recall, low to medium confidence, with a phone checklist to verify), our set scored (Legendary 12 of 16, Verdant 5, Frostbyte 4, icon 10 of 12), a recipe, and three candidates (Moment, Reward, Mystery) specified for the Mac's renderer.
+- Found: Roblox's thumbnail tool is a per-user bandit, not an equal split (keep 2 to 5 live for a week, read qualified play-through with playtime); since June 2026 misleading thumbnails are demoted; text belongs in the top third; the Verdant title sat in the bottom sixth (moved to the top in the same commit); the store renders show the old ball bodies, so the candidates must be rendered from whichever models are live at launch.
+- Left: render the three candidates on the Mac after the surface pass; the Events row needs its own frame; verify the 13-game table on a phone.
